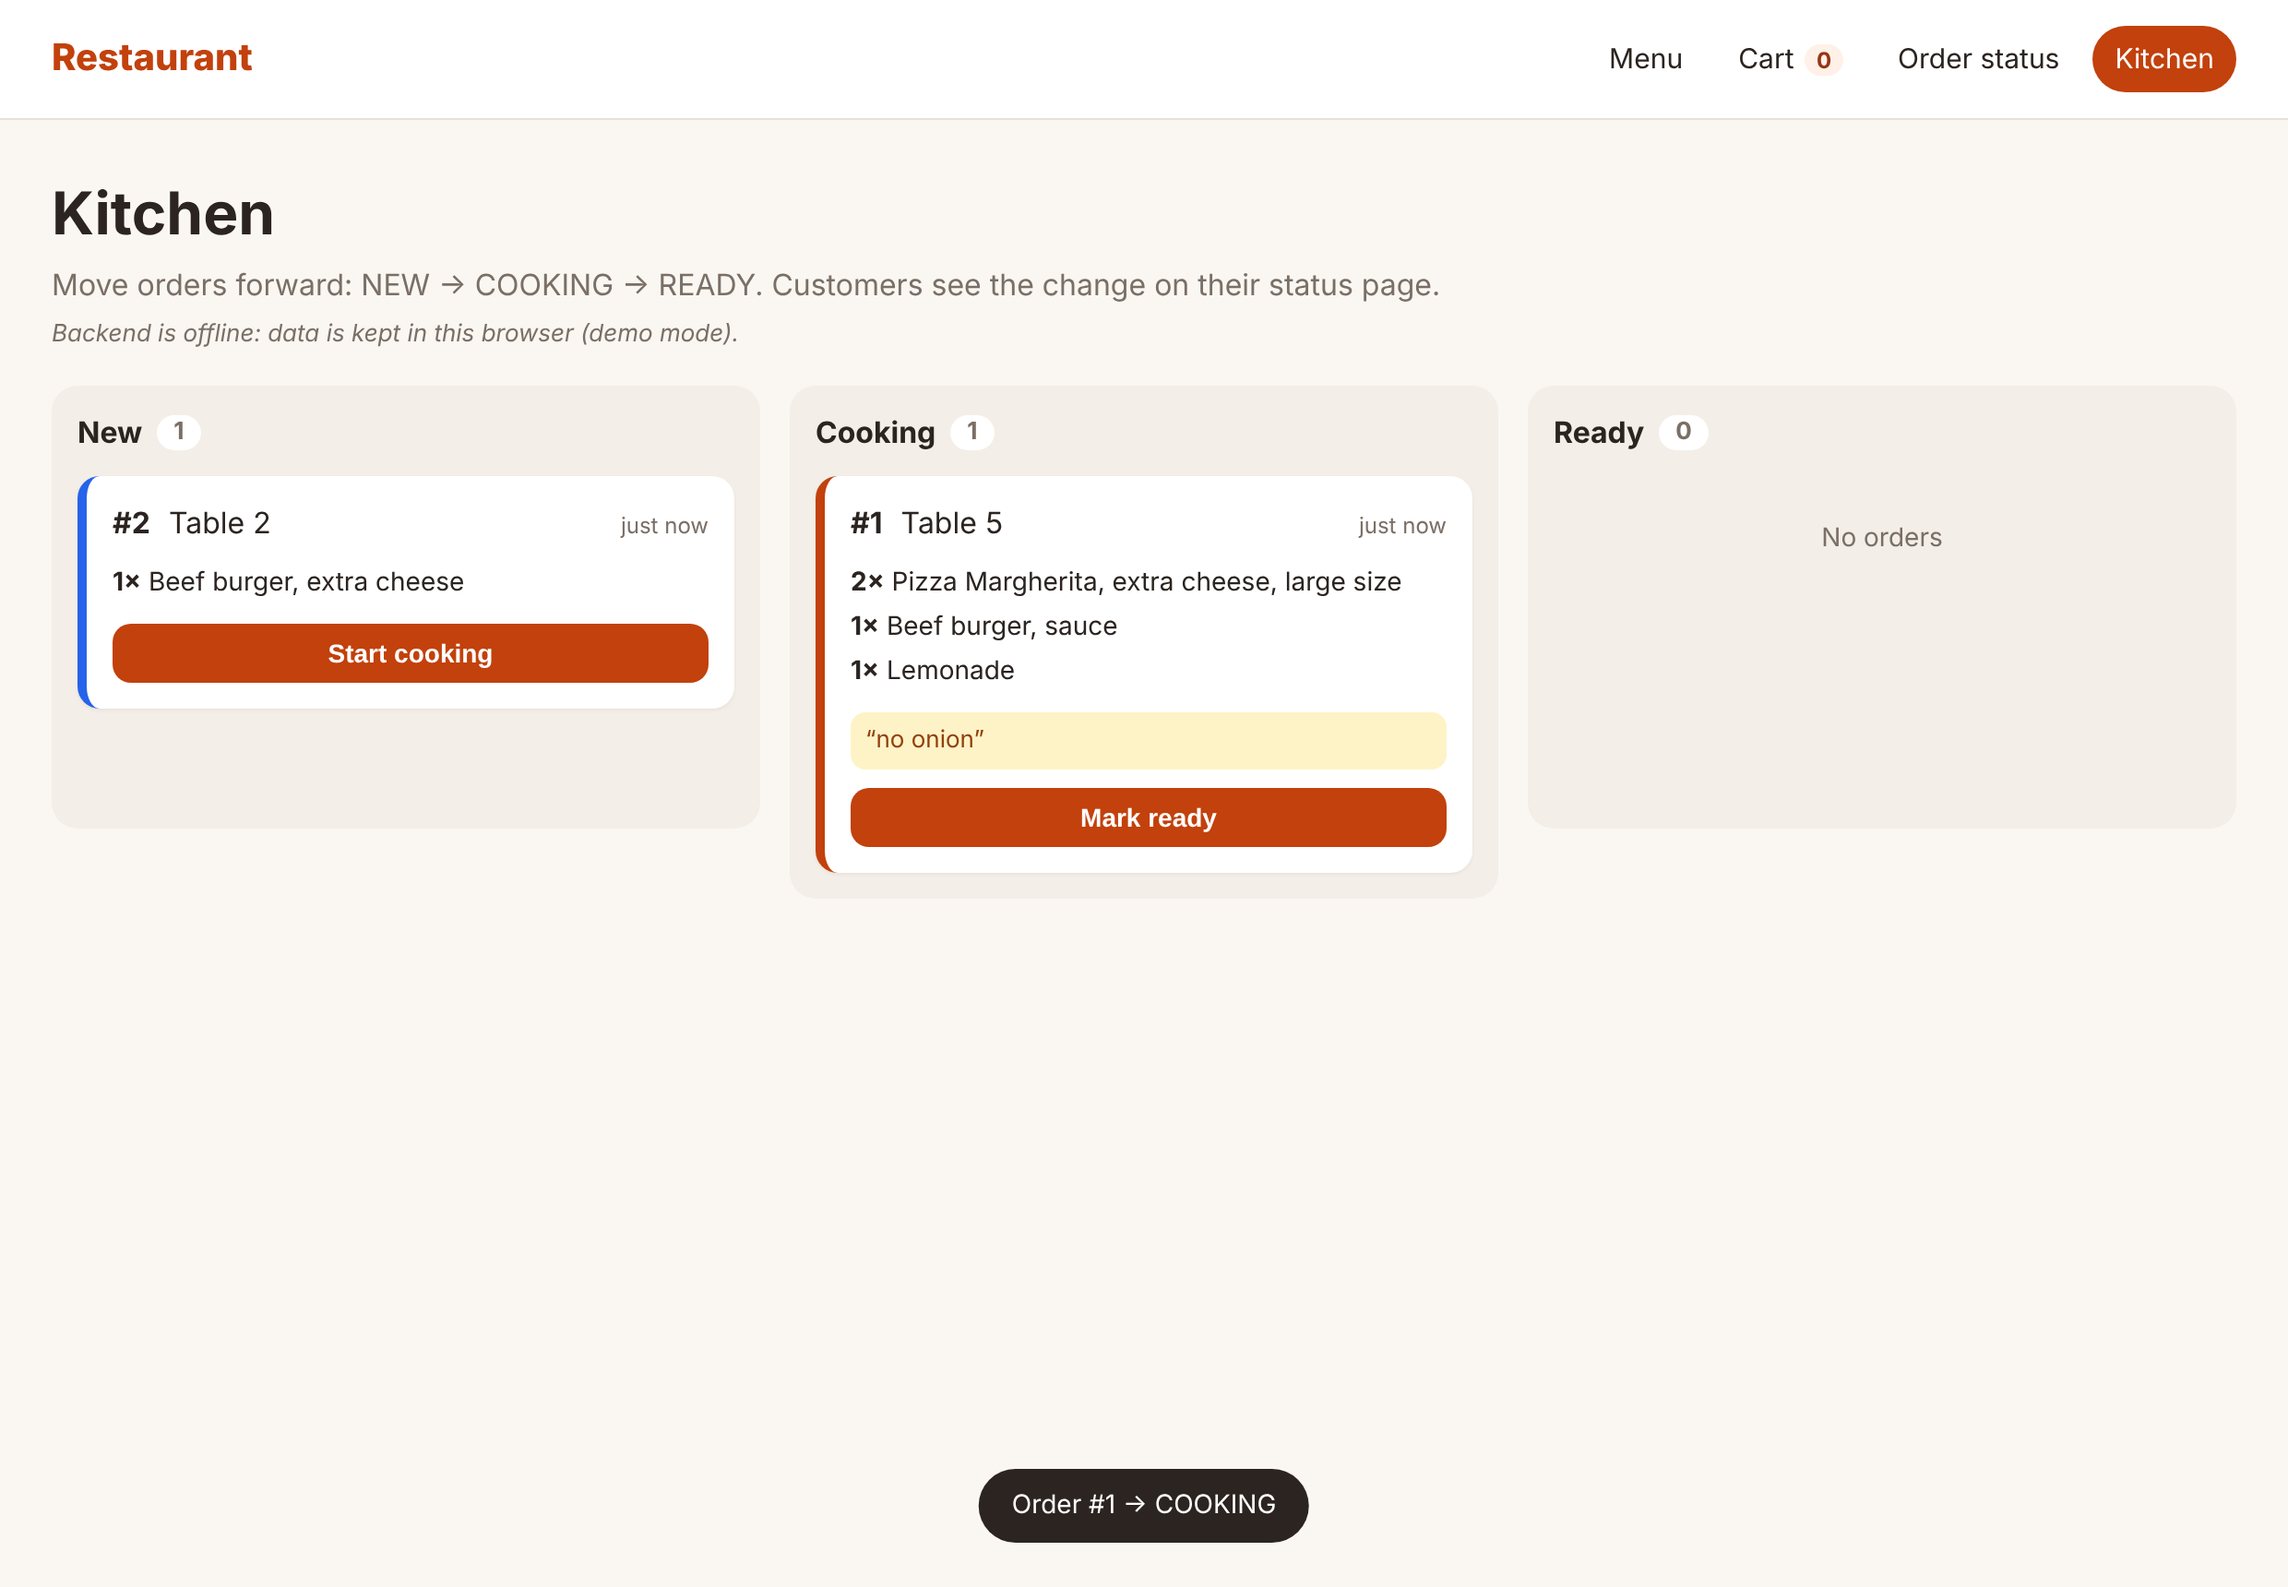
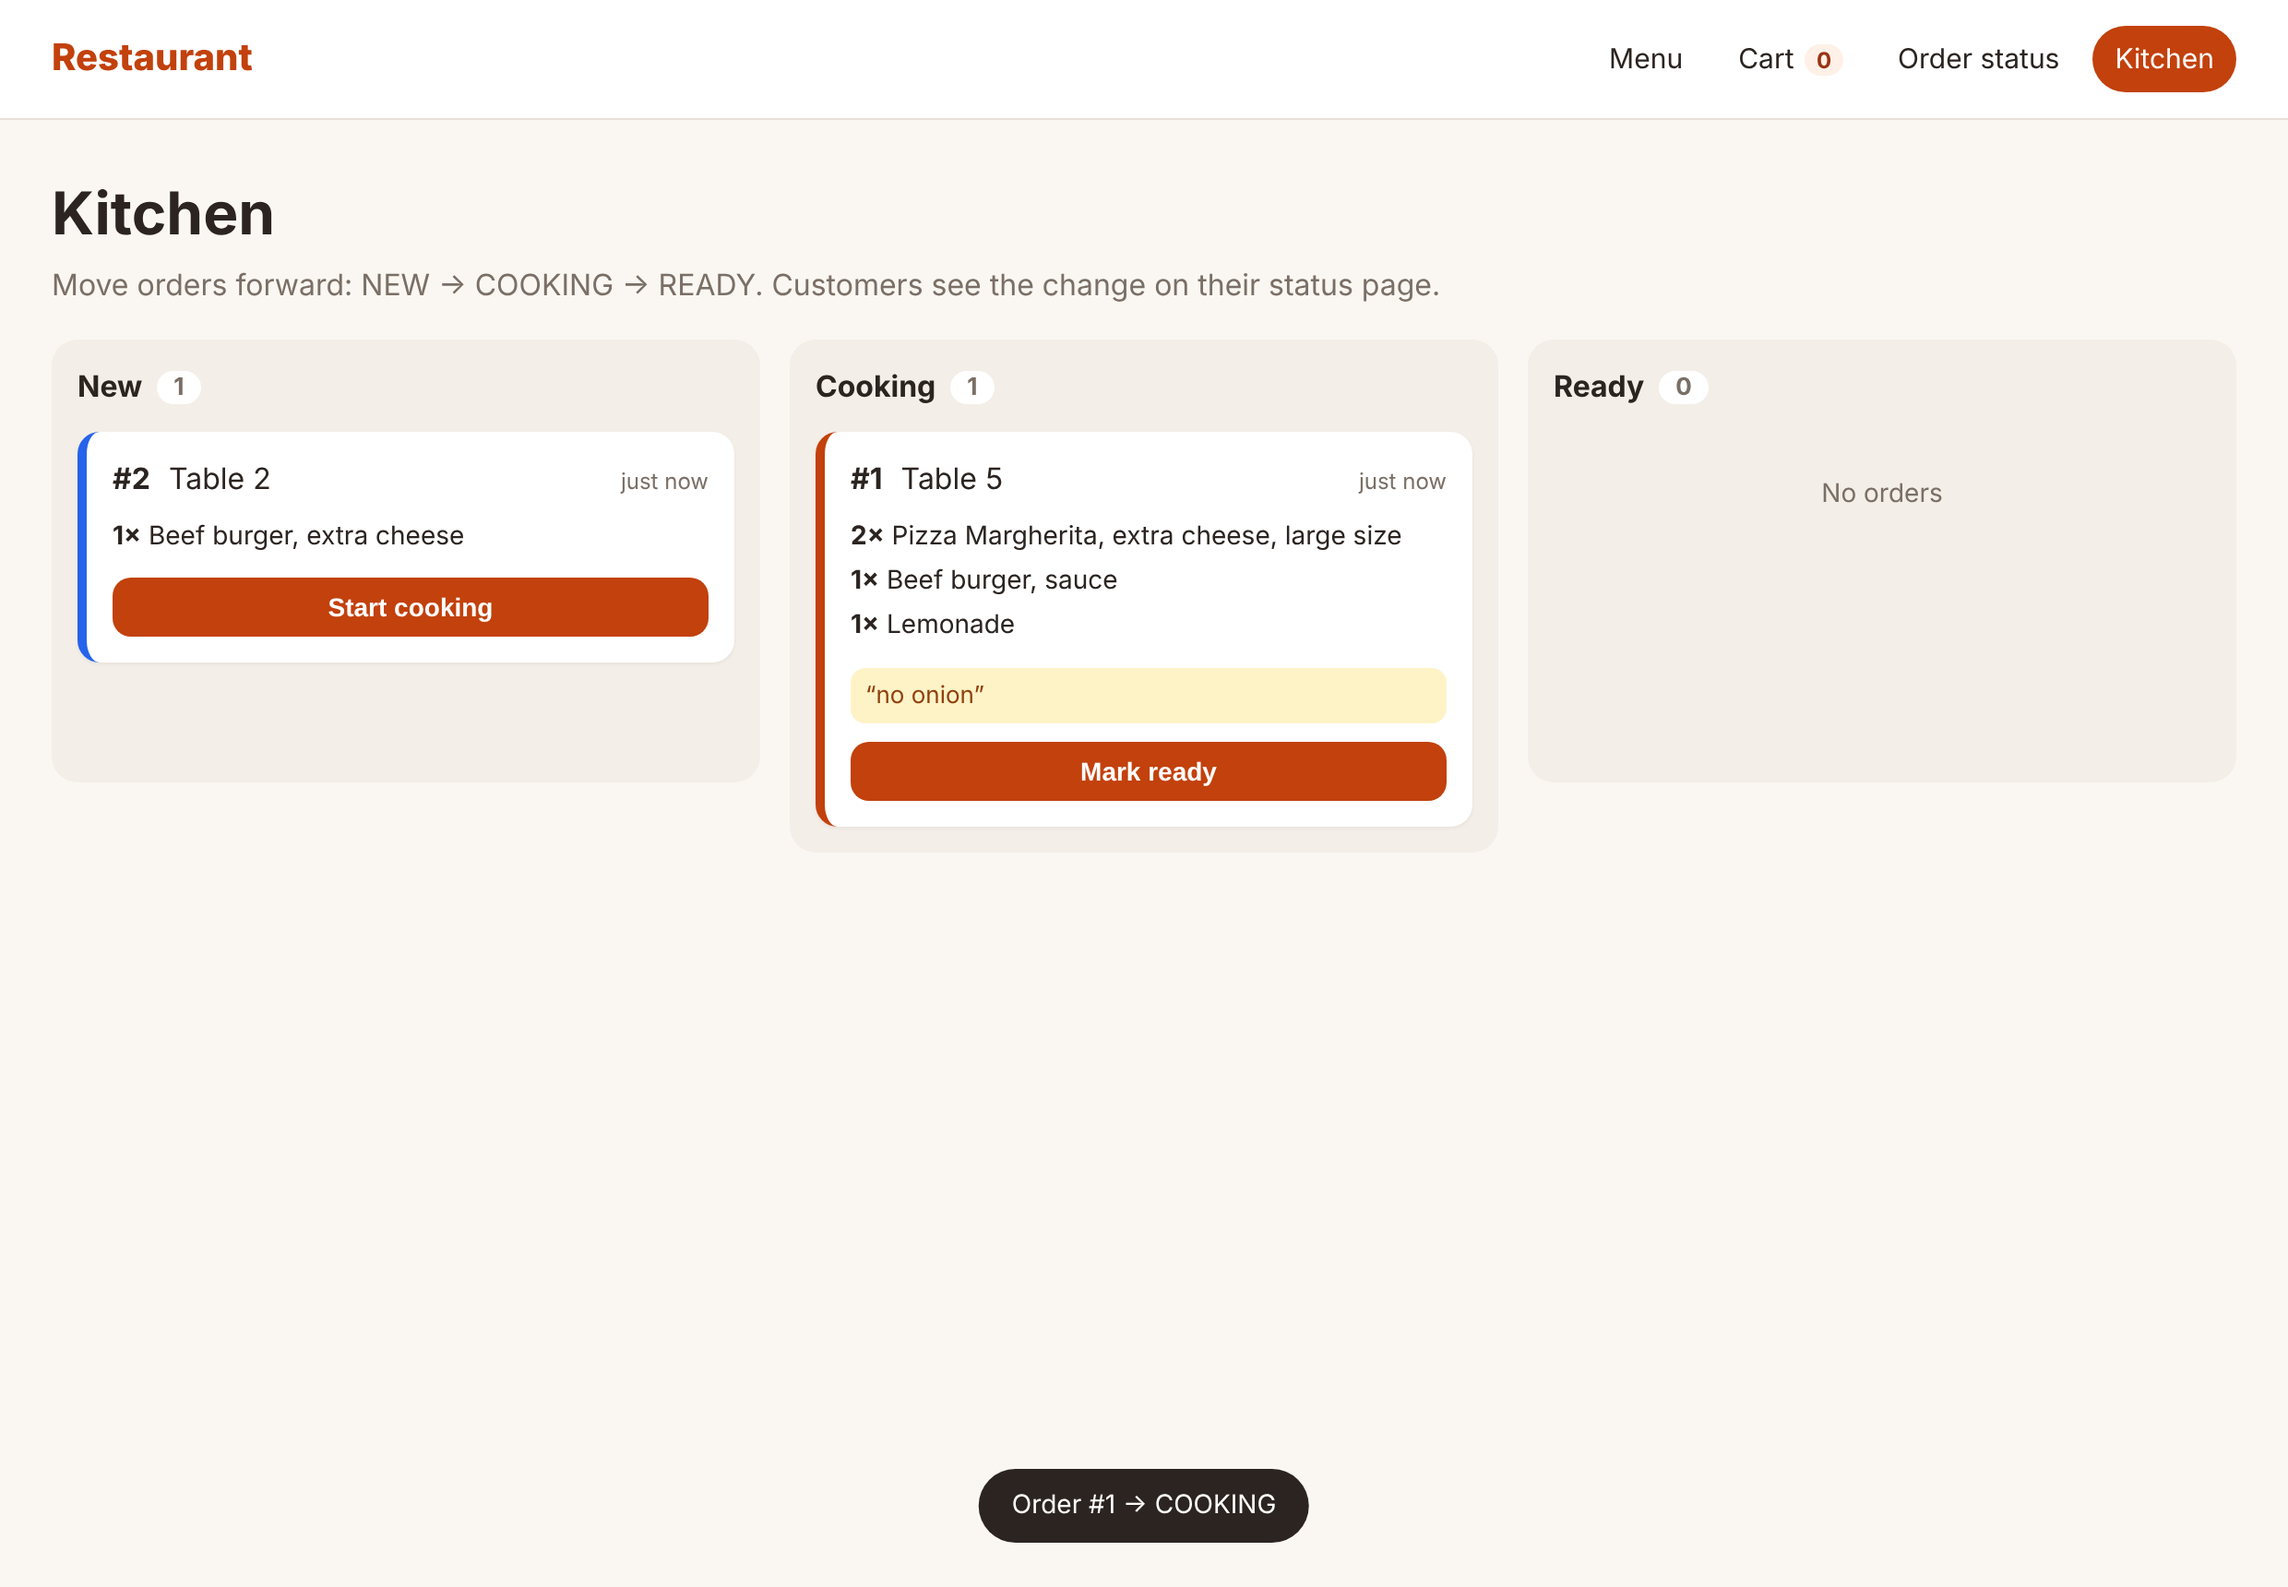
Update README and screenshots with live backend

diff --git a/README.md b/README.md
@@ -1,21 +1,25 @@
 # Restaurant Ordering System
 
-Java 17, Maven, JUnit 5. Web client: HTML/CSS/JS (backend on Javalin, person 3).
+Java 17, Maven, JUnit 5. Web client: HTML/CSS/JS.
+Backend: REST API on the JDK built-in HTTP server (`com.sun.net.httpserver`) with a small own JSON parser, so no external libraries are needed.
 
 ```
 backend/
   src/main/java/restaurant/
-    Main.java            demo of Builder + Observer (person 3 will replace it with Javalin start)
+    Main.java            starts the web server on http://localhost:7070
     meal/                Meal, Pizza, Burger, Drink, MealFactory, MealDemo        (person 1)
     decorator/           MealDecorator, Cheese/Sauce/LargeSizeDecorator, Toppings (person 1)
-    order/               Order, OrderBuilder, OrderStatus                         (person 2)
+    order/               Order, OrderBuilder, OrderStatus, OrderDemo              (person 2)
     observer/            OrderListener, KitchenListener, CustomerListener         (person 2)
     payment/             PaymentStrategy, NoDiscount, PercentDiscount,
                          PromoCodeDiscount, PaymentContext, PaymentDemo           (person 3)
-    api/, facade/        Routes (Javalin), RestaurantFacade                       (person 3, TODO)
+    facade/              RestaurantFacade                                         (person 3)
+    api/                 Routes (REST endpoints + static files), Json             (person 3)
   src/test/java/restaurant/
     meal/MealFactoryDecoratorTest.java
     order/OrderObserverTest.java
+    facade/RestaurantFacadeTest.java
+    api/JsonTest.java, api/RoutesTest.java   (starts the server and calls the API over HTTP)
 frontend/
   index.html    + js/menu.js      menu, toppings, price recalculation
   cart.html     + js/cart.js      cart, table/comment, discount (Strategy), card/cash, POST /order
@@ -31,20 +35,22 @@ docs/
 
 ## Run
 
+**Web app (backend + frontend):** run `restaurant.Main` (green ▶ in IntelliJ, or `cd backend` → `mvn compile exec:java`),
+then open http://localhost:7070. Kitchen panel: http://localhost:7070/kitchen.html
+(open it in a second tab, move the order forward and watch the status page and the server console).
+
+**Tests and console demos:**
+
 ```
 cd backend
 mvn test
-mvn compile exec:java -Dexec.mainClass=restaurant.meal.MealDemo   # Factory + Decorator
-mvn compile exec:java -Dexec.mainClass=restaurant.Main            # Builder + Observer
-mvn compile exec:java -Dexec.mainClass=restaurant.payment.PaymentDemo   # Strategy
+mvn compile exec:java -Dexec.mainClass=restaurant.meal.MealDemo        # Factory + Decorator
+mvn compile exec:java -Dexec.mainClass=restaurant.order.OrderDemo      # Builder + Observer
+mvn compile exec:java -Dexec.mainClass=restaurant.payment.PaymentDemo  # Strategy
 ```
 
-Frontend without the backend (demo mode): run a static server in `frontend/`
-(`python -m http.server`, or Live Server in VS Code) and open `http://localhost:8000`.
-Orders are then stored in the browser's localStorage: open `status.html` and `kitchen.html`
-in two tabs, press the buttons in the kitchen and the status page updates by itself.
-When Javalin serves `GET /menu`, all pages switch to the real API automatically
-(Javalin should serve the `frontend/` folder as static files, so pages and API share one origin).
+**Frontend only (demo mode, no Java):** `python -m http.server` inside `frontend/`, open http://localhost:8000.
+Orders are then kept in the browser's localStorage.
 
 ## Contracts for the team
 
